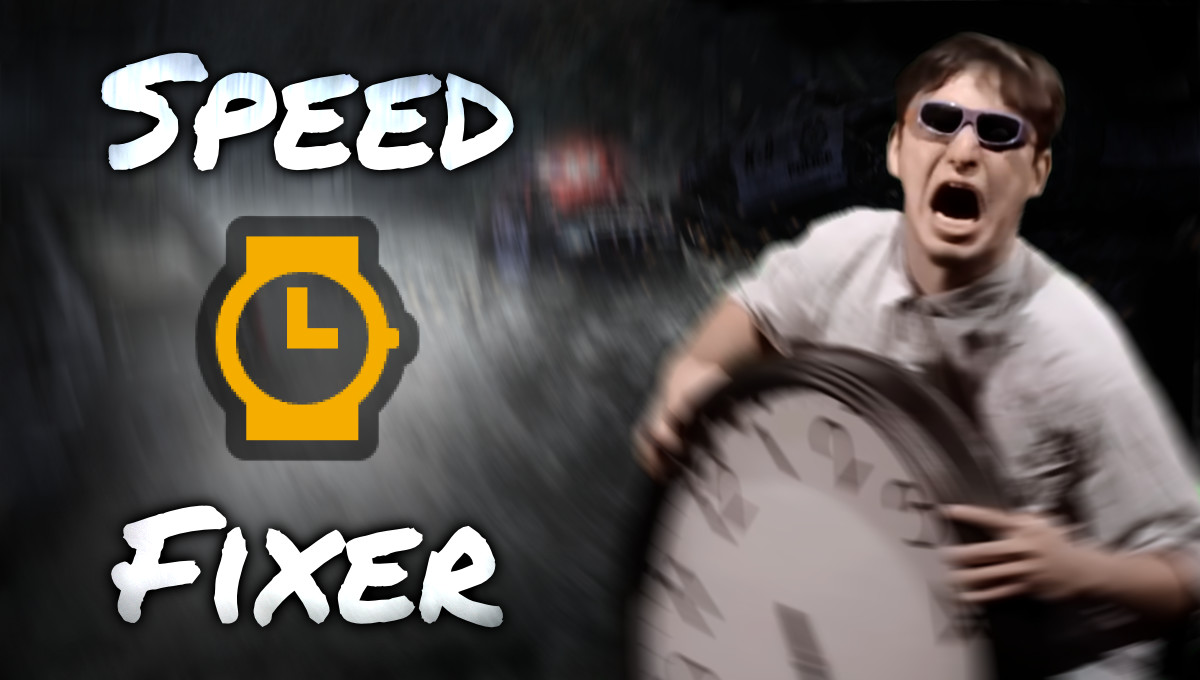
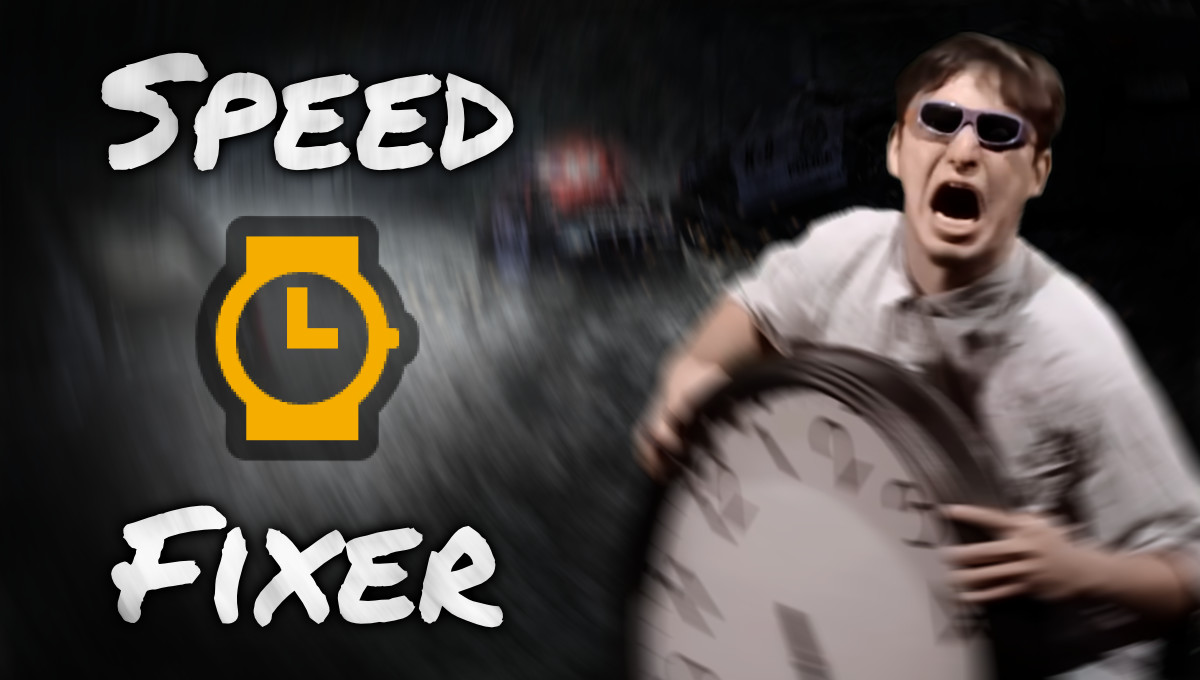
Improved configuration structure and logic.

diff --git a/Source/dllmain.cpp b/Source/dllmain.cpp
@@ -57,14 +57,12 @@ constexpr float mps2kph = 3.6f;   // kph / mps
 constexpr float deg2rad = .0175f; // rad / deg
 constexpr float gravity = -9.81f; // mps / second
 
-// Activation
-float maxDurationScale; // unity
+// Charge
+float durationScale; // unity
 
-// Recharging
-float activeScale; // unity
-
-float minDriftBase; // mps
-float minSlipRad;   // rad
+float minDriftSpeed; // mps
+float minDriftSlip;  // rad
+float driftScale;    // unity
 
 // Physics
 float timeScale;    // unity
@@ -73,11 +71,11 @@ float gravityBoost; // mps / second
 float activationScale;   // unity
 float deactivationScale; // unity
 
-float frictionScale;    // unity
-float maxSteeringAngle; // degrees
+float frontFrictionScale; // unity
+float maxSteeringAngle;   // degrees
 
-float aeroDragScale;  // unity
-float steerDragScale; // unity
+float aeroDragScale; // unity
+float slipGripScale; // unity
 
 
 
@@ -128,24 +126,25 @@ static void InitialiseActivation(const Parser& parser)
 {
 	bool hasFiniteDuration = false;
 
-	float minSpeedToActivate = 30.f / kph2mph; // kph
-	float maxDuration        = 10.f;           // seconds
+	float minCarSpeed = 30.f / kph2mph; // kph
+	float maxDuration = 10.f;           // seconds
 
 	// Extraction
-	if (const auto* const section = parser.GetSection("Speedbreaker:Activation"))
+	if (const auto* const section = parser.GetSection("Activation"))
 	{
-		Extract(section, "minCarSpeed", minSpeedToActivate, {0.f});
+		Extract(section, "minCarSpeed", minCarSpeed, {0.f});
 		hasFiniteDuration = Extract(section, "maxDuration", maxDuration, {.001f});
 	}
 
-	maxDurationScale = 1.f / maxDuration;
+	// Conversion
+	durationScale = 1.f / maxDuration;
 
 	// Code changes
-	MemoryTools::Write<float> (minSpeedToActivate * kph2mph, {0x8B01C0});
-	MemoryTools::Write<float*>(&maxDurationScale,            {0x6EDDC3});
+	MemoryTools::Write<float> (minCarSpeed * kph2mph, {0x8B01C0});
+	MemoryTools::Write<float*>(&durationScale,        {0x6EDDC3});
 
 	if (not hasFiniteDuration)
-		MemoryTools::Write<byte>(0xEB, {0x6EDDB9}); // jump near, relative
+		MemoryTools::Write<byte>(0xEB, {0x6EDDB9, 0x6F8F76}); // jump near, relative
 }
 
 
@@ -154,39 +153,46 @@ static void InitialiseRecharging(const Parser& parser)
 {
 	bool canRechargePassively = false;
 
-	float minSpeedToRecharge = 100.f / kph2mph; // kph
-	float rechargeTime       = 25.f;            // seconds
+	float minCarSpeed = 100.f / kph2mph; // kph
+	float passiveTime = 25.f;            // seconds
 
-	activeScale = .5f; // unity
+	float minSpeedActive = 35.f / kph2mph; // kph
+	float minSlipAngle   = 30.f;           // degrees
+	float activeScale    = 1.f;            // unity
 
-	float minDriftSpeed = 35.f / kph2mph; // kph
-	float minDriftSlip  = 30.f;           // degrees
+	driftScale = .5f; // unity
 
 	// Extraction
-	if (const auto* const section = parser.GetSection("Speedbreaker:Recharging"))
+	if (const auto* const section = parser.GetSection("Recharging"))
 	{
-		const bool speedDefined = Extract(section, "minCarSpeed",  minSpeedToRecharge, {0.f});
-		const bool timeDefined  = Extract(section, "rechargeTime", rechargeTime,       {.001f});
+		const bool speedDefined = Extract(section, "minCarSpeed", minCarSpeed, {0.f});
+		const bool timeDefined  = Extract(section, "passiveTime", passiveTime, {.001f});
 
 		canRechargePassively = (speedDefined or timeDefined);
 
-		Extract(section, "activeScale",   activeScale,   {0.f});
-		Extract(section, "minDriftSpeed", minDriftSpeed, {0.f});
-		Extract(section, "minDriftSlip",  minDriftSlip,  {0.f, 90.f});
+		Extract(section, "minDriftSpeed", minSpeedActive, {0.f});
+		Extract(section, "minSlipAngle",  minSlipAngle,   {0.f, 90.f});
+		Extract(section, "activeScale",   activeScale);
 	}
 
-	minDriftBase = minDriftSpeed / mps2kph;
-	minSlipRad   = minDriftSlip * deg2rad;
+	// Conversion
+	minDriftSpeed = minSpeedActive / mps2kph;
+	minDriftSlip  = minSlipAngle * deg2rad;
+
+	const float durationRatio = 10.f * durationScale; // unity
+
+	driftScale *= durationRatio * activeScale;
 
 	// Code changes
-	MemoryTools::Write<float> (minSpeedToRecharge * kph2mph, {0x901AE8});
-	MemoryTools::Write<float> (rechargeTime,                 {0x901AE4});
-	MemoryTools::Write<float*>(&activeScale,                 {0x6A99F8});
-	MemoryTools::Write<float*>(&minDriftBase,                {0x6A99B8});
-	MemoryTools::Write<float*>(&minSlipRad,                  {0x6A99CB});
+	MemoryTools::Write<float>(minCarSpeed * kph2mph, {0x901AE8});
+	MemoryTools::Write<float>(passiveTime,           {0x901AE4});
 
 	if (not canRechargePassively)
 		MemoryTools::Write<byte>(0xEB, {0x6EDDE3}); // jump near, relative
+	
+	MemoryTools::Write<float*>(&minDriftSpeed, {0x6A99B8});
+	MemoryTools::Write<float*>(&minDriftSlip,  {0x6A99CB});
+	MemoryTools::Write<float*>(&driftScale,    {0x6A99F8});
 }
 
 
@@ -204,15 +210,15 @@ static void InitialisePhysics(const Parser& parser)
 	activationScale   = 2.f; // unity
 	deactivationScale = .5f; // unity
 
-	float frictionBoost = 75.f; // percent
+	float frontFrictionBoost = 75.f; // percent
 
 	maxSteeringAngle = 60.f; // degrees
 
-	float aeroDragReduction  = 75.f;  // percent
-	float steerDragReduction = 100.f; // percent
+	float aeroDragReduction = 75.f;  // percent
+	float slipGripReduction = 100.f; // percent
 
 	// Extraction
-	if (const auto* const section = parser.GetSection("Speedbreaker:Physics"))
+	if (const auto* const section = parser.GetSection("Physics"))
 	{
 		Extract(section, "timeScale",    timeScale,    {1.f});
 		Extract(section, "carMassScale", carMassScale, {0.f});
@@ -221,13 +227,14 @@ static void InitialisePhysics(const Parser& parser)
 		Extract(section, "toDilationScale",   toDilationScale,   {.001f});
 		Extract(section, "fromDilationScale", fromDilationScale, {.001f});
 
-		Extract(section, "frictionBoost",    frictionBoost,    {0.f});
-		Extract(section, "maxSteeringAngle", maxSteeringAngle, {0.f, 90.f});
+		Extract(section, "frontFrictionBoost", frontFrictionBoost, {0.f});
+		Extract(section, "maxSteeringAngle",   maxSteeringAngle,   {0.f, 90.f});
 
-		Extract(section, "aeroDragReduction",  aeroDragReduction,  {0.f,  100.f});
-		Extract(section, "steerDragReduction", steerDragReduction, {15.f, 100.f});
+		Extract(section, "aeroDragReduction", aeroDragReduction, {0.f,  100.f});
+		Extract(section, "slipGripReduction", slipGripReduction, {15.f, 100.f});
 	}
 
+	// Conversion
 	const float timeRate = 1.f / timeScale; // unity
 
 	gravityBoost = gravity * (gravityScale - 1.f);
@@ -237,22 +244,25 @@ static void InitialisePhysics(const Parser& parser)
 	activationScale   *= complementRatio * toDilationScale;
 	deactivationScale *= complementRatio * fromDilationScale;
 
-	frictionScale  = frictionBoost / 100.f;
+	frontFrictionScale  = frontFrictionBoost / 100.f;
 
-	aeroDragScale  = aeroDragReduction           / 100.f;
-	steerDragScale = (steerDragReduction - 15.f) / 100.f;
+	aeroDragScale = aeroDragReduction          / 100.f;
+	slipGripScale = (slipGripReduction - 15.f) / 100.f;
 
 	// Code changes
-	MemoryTools::Write<float*>(&timeScale,         {0x472C53});
-	MemoryTools::Write<float> (timeRate,           {0x6F4DD4});
+	MemoryTools::Write<float*>(&timeScale,    {0x472C53});
+	MemoryTools::Write<float> (timeRate,      {0x6F4DD4});
+	MemoryTools::Write<float> (carMassScale,  {0x901AEC});
+	MemoryTools::Write<float*>(&gravityBoost, {0x6B1F17});
+
 	MemoryTools::Write<float*>(&activationScale,   {0x6F4DC8});
 	MemoryTools::Write<float*>(&deactivationScale, {0x6F4DF4});
-	MemoryTools::Write<float> (carMassScale,       {0x901AEC});
-	MemoryTools::Write<float*>(&gravityBoost,      {0x6B1F17});
-	MemoryTools::Write<float*>(&frictionScale,     {0x6A9E37});
-	MemoryTools::Write<float*>(&maxSteeringAngle,  {0x69E990});
-	MemoryTools::Write<float*>(&aeroDragScale,     {0x6B201E});
-	MemoryTools::Write<float*>(&steerDragScale,    {0x6B1FA3});
+
+	MemoryTools::Write<float*>(&frontFrictionScale, {0x6A9E37});
+	MemoryTools::Write<float*>(&maxSteeringAngle,   {0x69E990});
+
+	MemoryTools::Write<float*>(&aeroDragScale, {0x6B201E});
+	MemoryTools::Write<float*>(&slipGripScale, {0x6B1FA3});
 }
 
 
@@ -268,7 +278,6 @@ static void __cdecl Initialise
 	const size_t  numArgs,
 	const address argArray
 ) {
-	// Call original function first
 	CALL_HOOK_ORIGINAL(Initialise, numArgs, argArray);
 
 	#ifdef _DEBUG
@@ -289,9 +298,9 @@ static void __cdecl Initialise
 	);
 
 	// Initialise features
-	InitialiseActivation(parser);
-	InitialiseRecharging(parser);
-	InitialisePhysics   (parser);
+	InitialiseActivation(parser); // must precede InitialiseRecharging
+	InitialiseRecharging(parser); // must follow  InitialiseActivation
+	InitialisePhysics   (parser); // independent of other helpers
 }
 
 

diff --git a/Source/Headers/MemoryTools.hpp b/Source/Headers/MemoryTools.hpp
@@ -217,7 +217,7 @@ namespace MemoryTools
 
 	// Assembly detouring ---------------------------------------------------------------------------------------------------------------------------
 
-	#define ASSEMBLY_DETOUR(name, begin, end) MT_DETAILS_RANGE(name, begin, end); __declspec(naked) void name()
+	#define ASSEMBLY_DETOUR(name, begin, end) MT_DETAILS_RANGE(name, begin, end); void __declspec(naked) name()
 
 	#define EXIT_ASSEMBLY_DETOUR(name) jmp dword ptr [MT_DETAILS_END(name)]
 

diff --git a/README.md b/README.md
@@ -3,14 +3,13 @@
 
 SpeedFixer lets you **customise the Speedbreaker mechanic** in *Need for Speed: Most Wanted* (2005):
 * the car speed required to activate it,
-* whether it has a limited active duration,
-* its maximum active duration when fully charged,
-* whether you can recharge it passively over time,
+* its maximum duration when fully charged,
+* whether it can recharge passively over time,
 * the car speed required to trigger passive recharging,
-* how long fully passive recharging takes to complete,
-* how effective active recharging (by drifting) is,
-* the drifting speed required to trigger active recharging,
+* the time required for passive recharging to complete,
+* the car speed required to trigger active recharging,
 * the slip angle required to trigger active recharging,
+* the overall effectiveness of active recharging,
 * the dilation multiplier for in-game time,
 * the car-mass multiplier for collisions,
 * the time-dilation transition speed,
@@ -18,7 +17,7 @@ SpeedFixer lets you **customise the Speedbreaker mechanic** in *Need for Speed: 
 * the boost to front-wheel steering friction,
 * the maximum front-wheel steering angle,
 * the reduction of aerodynamic drag, and
-* the reduction of steering drag.
+* the reduction of forward grip when slipping.
 
 &nbsp;
 
@@ -46,7 +45,7 @@ The **sections below** address these questions in detail:
 &nbsp;
 
 **To install** SpeedFixer:
-1. download and extract the [`NfSMW_SpeedFixer_v1.04.2.7z`](https://github.com/rng-guy/NFSMWSpeedFixer/releases/latest) archive;
+1. download and extract the [`NfSMW_SpeedFixer_v1.05.0.7z`](https://github.com/rng-guy/NFSMWSpeedFixer/releases/latest) archive;
 2. copy SpeedFixer's `scripts` folder to your game's folder, replacing existing files; and
 3. if SpeedFixer's `.asi` file gets flagged by your antivirus software, whitelist the file.
 
@@ -56,7 +55,7 @@ The **sections below** address these questions in detail:
 
 **To uninstall** SpeedFixer, remove its files from your game's `scripts` folder.
 
-**To update** SpeedFixer, uninstall it and repeat the installation process above. If you update from a version older than v1.04.00, replace the old configuration file.
+**To update** SpeedFixer, uninstall it and repeat the installation process above.
 
 &nbsp;
 
@@ -70,7 +69,7 @@ The **sections below** address these questions in detail:
 
 All **[VltEd](https://nfs-tools.blogspot.com/2019/02/nfs-vlted-v46-released.html) and [Binary](https://github.com/SpeedReflect/Binary/releases) mods** should be fully compatible with all SpeedFixer configurations. 
 
-Almost all  **other `.asi` mods** should be fully compatible with all SpeedFixer configurations. If you use the [NFSMW ExtraOptions](https://github.com/ExOptsTeam/NFSMWExOpts/releases) mod by ExOptsTeam, SpeedFixer overrides all its Speedbreaker features.
+Almost all  **other `.asi` mods** should be fully compatible with all SpeedFixer configurations.
 
 &nbsp;
 
@@ -82,4 +81,4 @@ Almost all  **other `.asi` mods** should be fully compatible with all SpeedFixer
 
 # 3 - How may I share or bundle SpeedFixer?
 
-You are free to bundle SpeedFixer and its files with your own mod, **no credit required**. In the interest of code transparency, however, consider linking to [SpeedFixer's GitHub repository](https://github.com/rng-guy/NFSMWSpeedFixer) somewhere in your mod's documentation (e.g. README).
+You're free to bundle SpeedFixer and its files with your own mod(s); **no credit required**.
